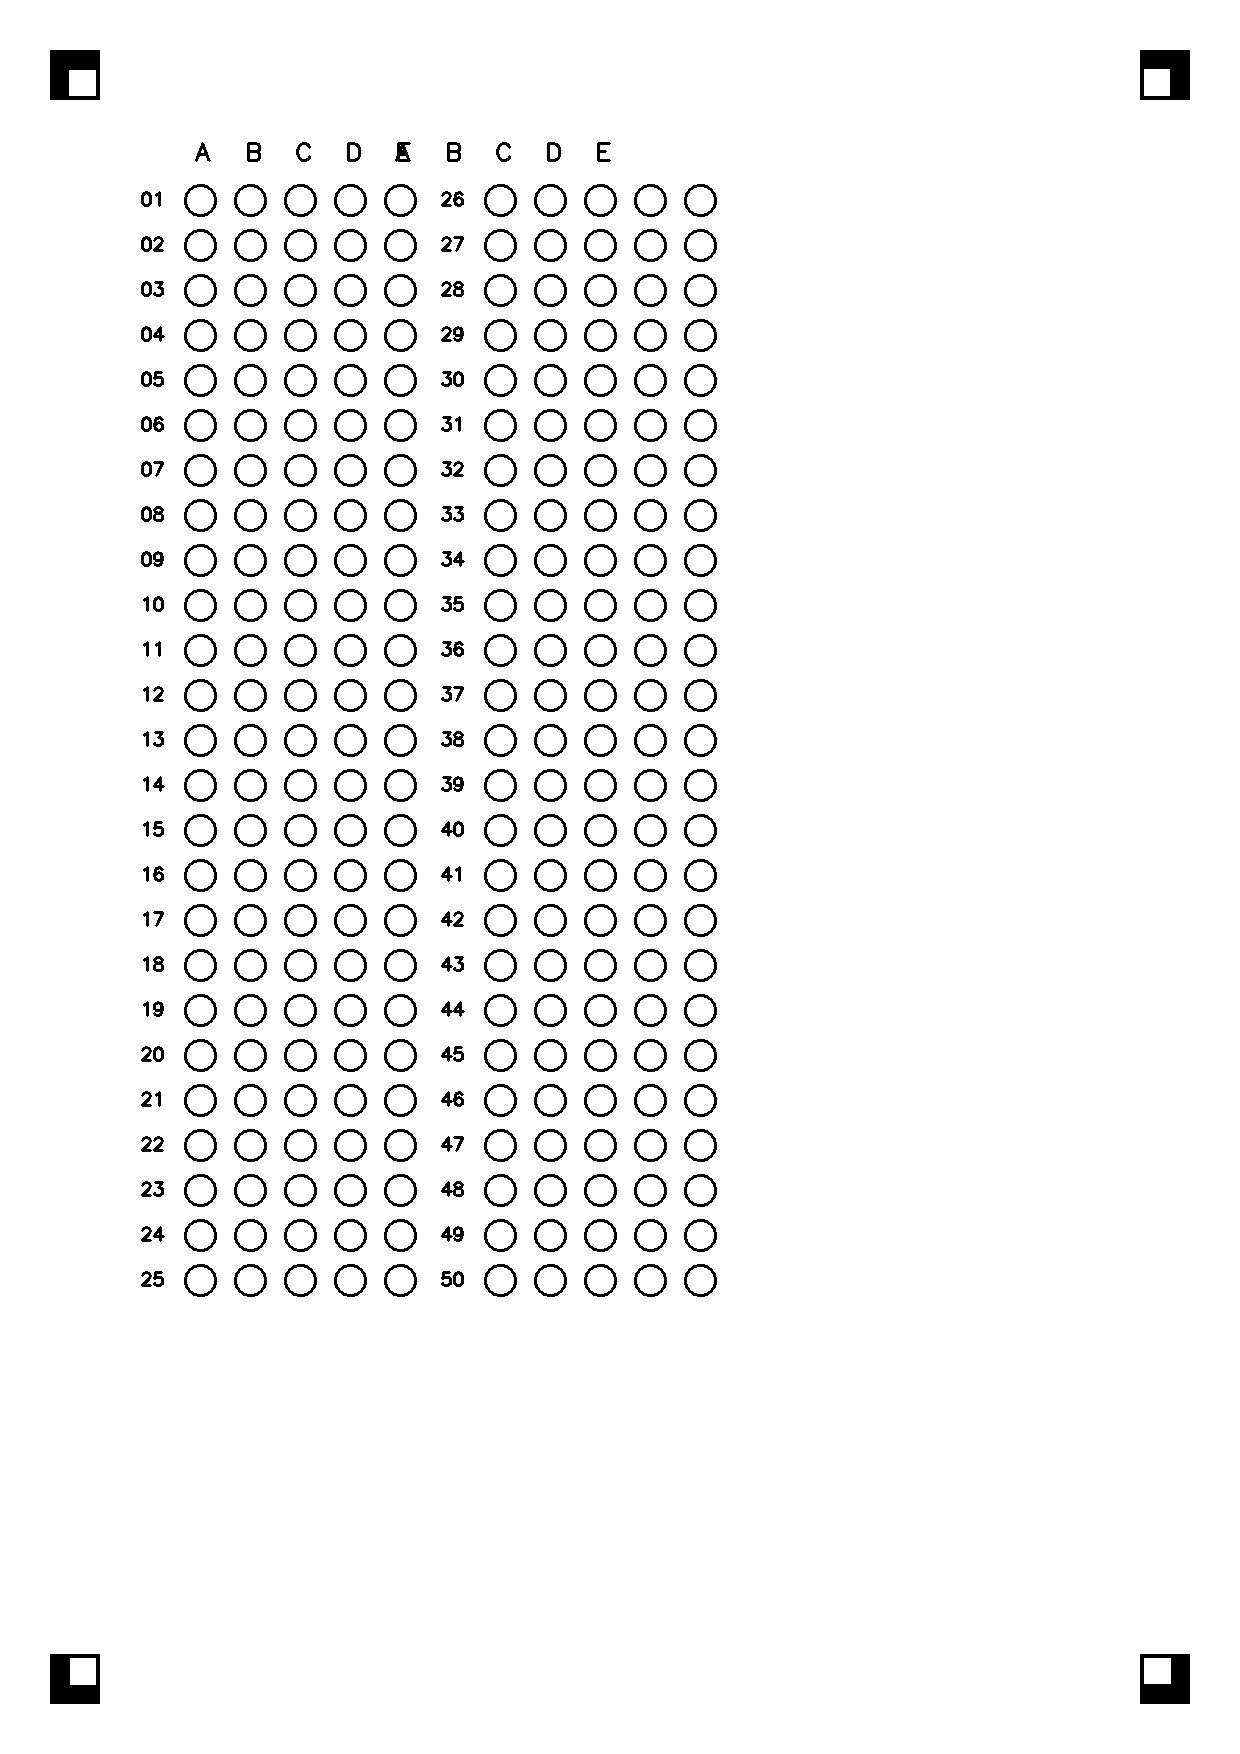
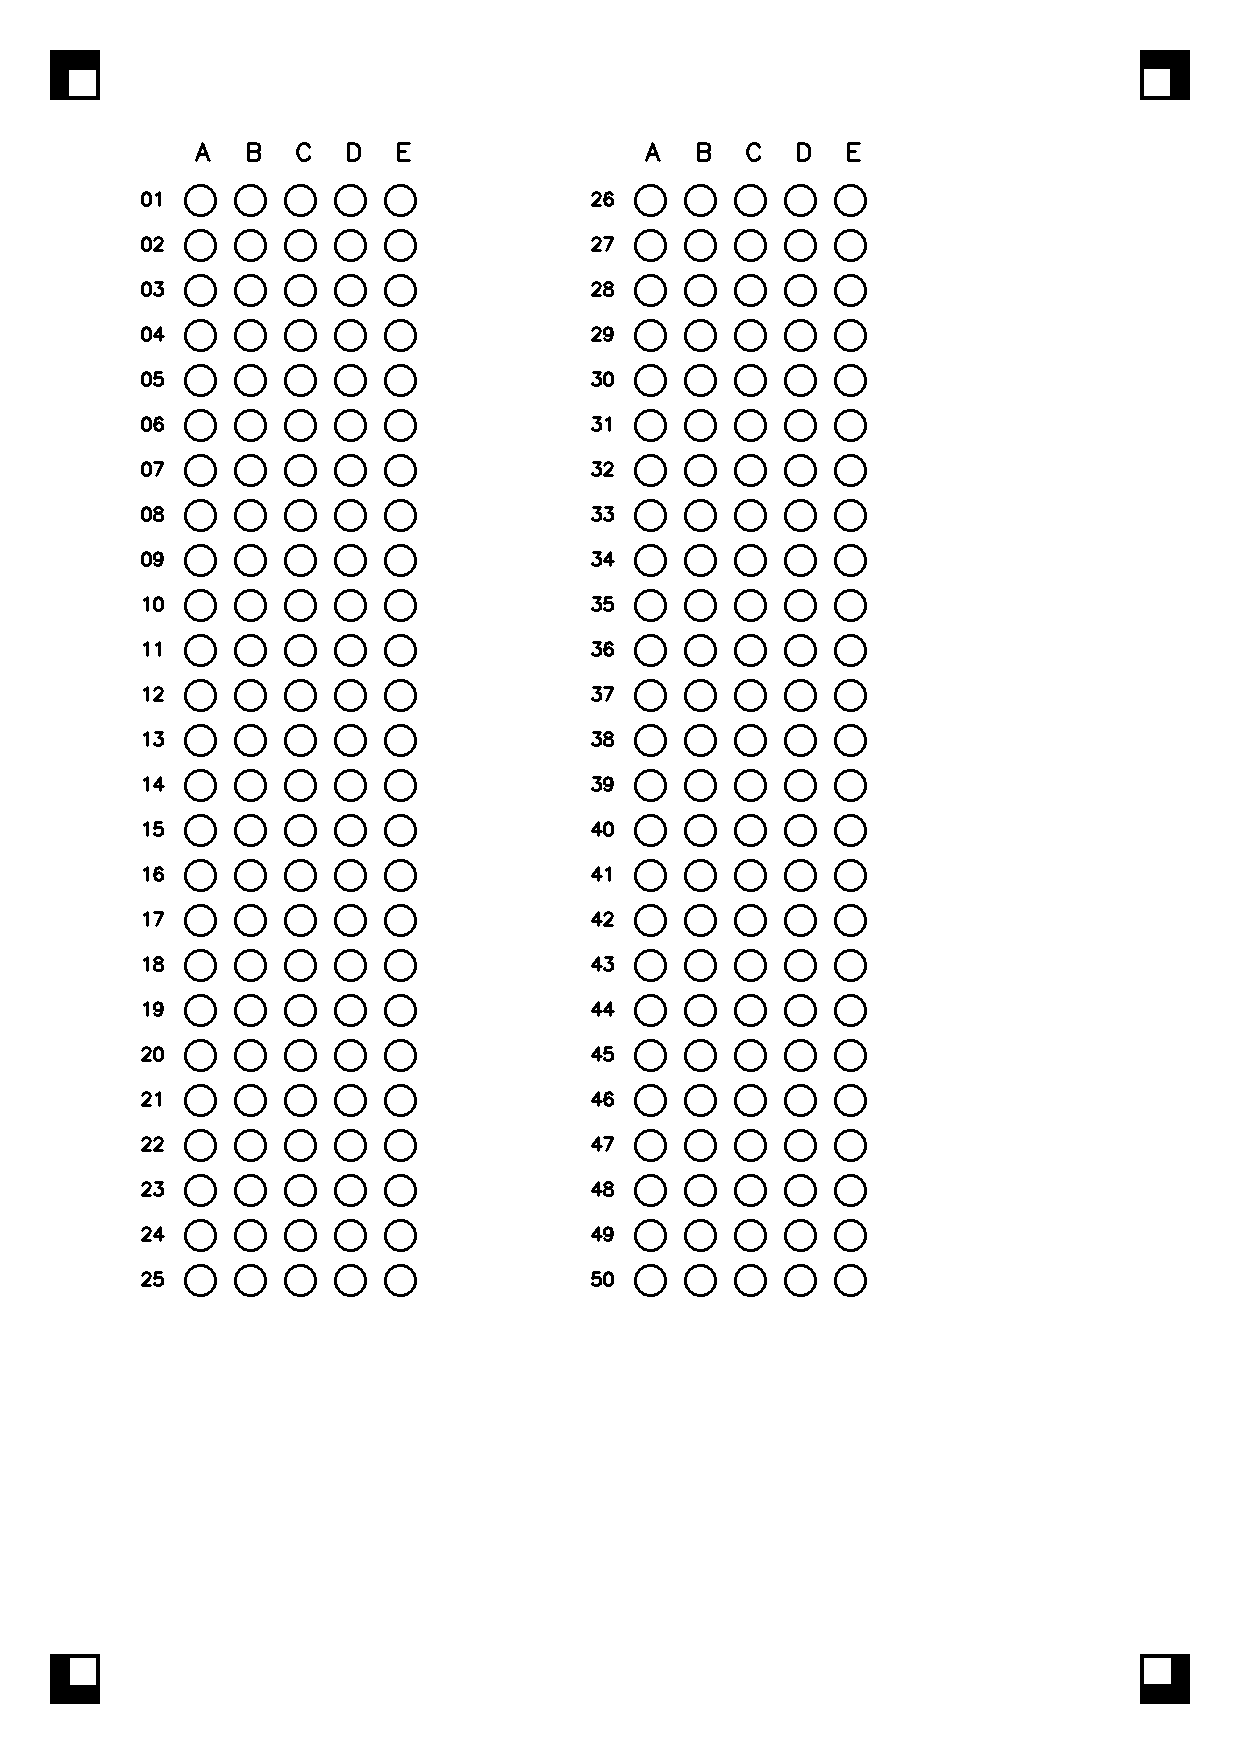
Meow

Changed region(s): [[0.5823, 0.0924, 0.7048, 0.7389], [0.3677, 0.0924, 0.521, 0.7389]]

diff --git a/ServForAndroidApp/scan.py b/ServForAndroidApp/scan.py
@@ -1,137 +1,64 @@
 import cv2
 import numpy as np
+from process_page import ProcessPage
 
-# Загружаем изображение
-widthImg = 800
-heightImg = 1000
+def clockwise_sort(x):
+	return (np.arctan2(x[0] - mx, x[1] - my) + 0.02 * np.pi) % (2*np.pi)
 
-image = cv2.imread('test14.png')
-imgBlank = np.zeros((heightImg, widthImg, 3), np.uint8)
+
+image = cv2.imread("test19.png")
+ratio = len(image[0]) / 500.0
+original_image = image.copy()
+
+image = cv2.resize(image, (0,0), fx=1/ratio, fy=1/ratio)
 gray = cv2.cvtColor(image, cv2.COLOR_BGR2GRAY)
-blurred = cv2.GaussianBlur(gray, (5, 5), 1)
-adaptive_thresh = cv2.Canny(blurred, 50, 200)
+gray = cv2.bilateralFilter(gray, 11, 17, 17)
+edged = cv2.Canny(gray, 200, 200)
 
-kernel = np.ones((5, 5))
-dial = cv2.dilate(adaptive_thresh, kernel, iterations=2)
-adaptive_thresh = cv2.erode(dial, kernel, iterations=1)
+contours, _ = cv2.findContours(edged.copy(), cv2.RETR_TREE, cv2.CHAIN_APPROX_SIMPLE)
+contours = sorted(contours, key=cv2.contourArea, reverse=True)[:10]
+biggestContour = None
 
-imgContours = image.copy()
-imgBigContour = image.copy()
+for contour in contours:
+	peri = cv2.arcLength(contour, True)
+	approx = cv2.approxPolyDP(contour, 0.02 * peri, True)
 
-contours, hierarchy = cv2.findContours(adaptive_thresh, cv2.RETR_EXTERNAL, cv2.CHAIN_APPROX_SIMPLE)
-cv2.drawContours(imgContours, contours, -1, (0, 255, 0), 10)
-imgcopy = cv2.resize(imgContours, (600, 750))
-cv2.imshow('origin', imgcopy)
+	if len(approx) == 4:
+		biggestContour = approx
+		break
+
+points = []
+desired_points = [[0, 1754], [0, 0], [1240, 0], [1240, 1754]]
+desired_points = np.float32(desired_points)
+
+if biggestContour is not None:
+	for i in range(0, 4):
+		points.append(biggestContour[i][0])
+
+mx = sum(point[0] for point in points) / 4
+my = sum(point[1] for point in points) / 4
+
+points.sort(key=clockwise_sort, reverse=True)
+points = np.float32(points)
+
+paper = []
+points *= ratio
+answers = 1
+if biggestContour is not None:
+	M = cv2.getPerspectiveTransform(points, desired_points)
+	paper = cv2.warpPerspective(original_image, M, (1240, 1754))
+	answers, paper = ProcessPage(paper)
+	cv2.imshow("Scanned Paper", cv2.resize(paper, (0, 0), fx=0.7, fy=0.7))
+
+if biggestContour is not None:
+	if answers != -1:
+		cv2.drawContours(image, [biggestContour], -1, (0, 255, 0), 3)
+		# print answers
+		# if codes is not None:
+		# 	print codes
+	else:
+		cv2.drawContours(image, [biggestContour], -1, (0, 0, 255), 3)
+
+cv2.imshow("Original Image", cv2.resize(image, (0, 0), fx=0.7, fy=0.7))
+
 cv2.waitKey(0)
-
-
-def reorder(myPoints):
-
-    myPoints = myPoints.reshape((4, 2))
-    myPointsNew = np.zeros((4, 1, 2), dtype=np.int32)
-    add = myPoints.sum(1)
-
-    myPointsNew[0] = myPoints[np.argmin(add)]
-    myPointsNew[3] =myPoints[np.argmax(add)]
-    diff = np.diff(myPoints, axis=1)
-    myPointsNew[1] =myPoints[np.argmin(diff)]
-    myPointsNew[2] = myPoints[np.argmax(diff)]
-
-    return myPointsNew
-
-
-def drawRectangle(img,biggest,thickness):
-    cv2.line(img, (biggest[0][0][0], biggest[0][0][1]), (biggest[1][0][0], biggest[1][0][1]), (0, 255, 0), thickness)
-    cv2.line(img, (biggest[0][0][0], biggest[0][0][1]), (biggest[2][0][0], biggest[2][0][1]), (0, 255, 0), thickness)
-    cv2.line(img, (biggest[3][0][0], biggest[3][0][1]), (biggest[2][0][0], biggest[2][0][1]), (0, 255, 0), thickness)
-    cv2.line(img, (biggest[3][0][0], biggest[3][0][1]), (biggest[1][0][0], biggest[1][0][1]), (0, 255, 0), thickness)
-
-    return img
-
-
-biggest = np.array([])
-max_area = 0
-for i in contours:
-    area = cv2.contourArea(i)
-    if area > 5000:
-        peri = cv2.arcLength(i, True)
-        approx = cv2.approxPolyDP(i, 0.02 * peri, True)
-
-        img_contours = np.uint8(np.zeros((image.shape[0], image.shape[1])))
-        cv2.drawContours(img_contours, [approx], -1, (255, 255, 255), 1)
-        imgcopy = cv2.resize(img_contours, (600, 750))
-        cv2.imshow('origin', imgcopy)
-        cv2.waitKey(0)
-
-        if area > max_area and len(approx) == 4:
-            biggest = approx
-            max_area = area
-
-if biggest.size != 0:
-    biggest = reorder(biggest)
-    cv2.drawContours(imgBigContour, biggest, -1, (0, 255, 0), 20)
-    imgBigContour = drawRectangle(imgBigContour, biggest, 2)
-    pts1 = np.float32(biggest)
-    pts2 = np.float32([[0, 0], [widthImg, 0], [0, heightImg], [widthImg, heightImg]])
-    matrix = cv2.getPerspectiveTransform(pts1, pts2)
-    imgWarpColored = cv2.warpPerspective(image, matrix, (widthImg, heightImg))
-
-    imgWarpColored = imgWarpColored[20:imgWarpColored.shape[0] - 20, 20:imgWarpColored.shape[1] - 20]
-    imgWarpColored = cv2.resize(imgWarpColored, (widthImg, heightImg))
-
-    imgWarpGray = cv2.cvtColor(imgWarpColored, cv2.COLOR_BGR2GRAY)
-    imgAdaptiveThre = cv2.adaptiveThreshold(imgWarpGray, 255, 1, 1, 7, 2)
-    imgAdaptiveThre = cv2.bitwise_not(imgAdaptiveThre)
-    imgAdaptiveThre = cv2.medianBlur(imgAdaptiveThre, 3)
-
-imgcopy = cv2.resize(imgAdaptiveThre, (600, 750))
-cv2.imshow('origin', imgcopy)
-cv2.waitKey(0)
-
-cut_img_gray = cv2.cvtColor(imgWarpColored, cv2.COLOR_BGR2GRAY)
-cut_img_blurred = cv2.GaussianBlur(cut_img_gray, (5, 5), 1)
-cut_img_thresh = cv2.Canny(cut_img_blurred, 60, 50)
-
-imgcopy = cv2.resize(imgWarpColored, (600, 750))
-cv2.imshow('origin', imgcopy)
-cv2.waitKey(0)
-
-cut_img_kernel = np.ones((5, 5))
-cut_img_dial = cv2.dilate(cut_img_thresh, cut_img_kernel, iterations=2)
-cut_img_thresh = cv2.erode(cut_img_dial, cut_img_kernel, iterations=1)
-
-imgcopy = cv2.resize(cut_img_thresh, (600, 750))
-cv2.imshow('origin', imgcopy)
-cv2.waitKey(0)
-
-cut_img_contours, cut_img_hierarchy = cv2.findContours(cut_img_thresh, cv2.RETR_EXTERNAL, cv2.CHAIN_APPROX_SIMPLE)
-
-min_radius = 10
-max_radius = 20
-
-filled_circles = []
-
-for cnt in cut_img_contours:
-    # Проверить, является ли контур достаточно круглым
-    (x, y), radius = cv2.minEnclosingCircle(cnt)
-    if min_radius < radius < max_radius:
-        # Выделить кружок и проверить его заполненность
-        mask = np.zeros(cut_img_thresh.shape, dtype="uint8")
-        cv2.drawContours(mask, [cnt], -1, 255, -1)
-
-        # Подсчитать количество черных пикселей внутри круга
-        circle_region = cv2.bitwise_and(cut_img_thresh, cut_img_thresh, mask=mask)
-        filled_ratio = cv2.countNonZero(circle_region) / (np.pi * radius ** 2)
-
-        # Если заполненность выше порога, считать круг заполненным
-        if filled_ratio > 0.8:  # порог можно подстроить
-            filled_circles.append((int(x), int(y)))
-
-for (x, y) in filled_circles:
-    cv2.circle(imgWarpColored, (x, y), int(10), (0, 0, 255), 2)  # Красный круг вокруг заполненного кружка
-
-imgcopy = cv2.resize(imgWarpColored, (600, 750))
-cv2.imshow('origin', imgcopy)
-cv2.waitKey(0)
-
-print("Заполненные кружки:", filled_circles)

diff --git a/ServForAndroidApp/process_page.py b/ServForAndroidApp/process_page.py
@@ -1,0 +1,148 @@
+import cv2
+import numpy as np
+from PIL import Image
+
+epsilon = 10 #image error sensitivity
+test_sensitivity_epsilon = 10 #bubble darkness error sensitivity
+answer_choices = ['A', 'B', 'C', 'D', 'E', '?'] #answer choices
+
+tags = [cv2.imread("markers/top_left.png", cv2.IMREAD_GRAYSCALE),
+        cv2.imread("markers/top_right.png", cv2.IMREAD_GRAYSCALE),
+        cv2.imread("markers/bottom_left.png", cv2.IMREAD_GRAYSCALE),
+        cv2.imread("markers/bottom_right.png", cv2.IMREAD_GRAYSCALE)]
+
+scaling = [1240.0, 1754.0] #scaling factor for 8.5in. x 11in. paper
+columns = [[200.0 / scaling[0], 50.0 / scaling[1]], [800.0 / scaling[0], 50.0 / scaling[1]]]  # Примерные значения для двух столбцов
+radius = 15.0 / scaling[0]  # Примерное значение, если радиус - 15 пикселей
+spacing = [50.0 / scaling[0], 45.0 / scaling[1]]  # Примерное значение для вертикального и горизонтального интервала
+
+
+def ProcessPage(paper):
+
+    cv2.imshow("Original Image", cv2.resize(paper, (0, 0), fx=0.5   , fy=0.5))
+
+    cv2.waitKey(0)
+
+    answers = [] #contains answers
+    gray_paper = cv2.cvtColor(paper, cv2.COLOR_BGR2GRAY) #convert image to grayscale
+    corners = FindCorners(paper) #find the corners of the bubbled area
+    print("Corners detected:", corners)
+    if corners is None:
+        return [-1], paper, [-1]
+
+    for corner in corners:
+        cv2.rectangle(
+            paper,
+            (corner[0] - 10, corner[1] - 10),
+            (corner[0] + 10, corner[1] + 10),
+            (0, 255, 0),
+            thickness=2
+        )
+
+        # Показать изображение с найденными углами
+    cv2.imshow("Corners Detected", cv2.resize(paper, (0, 0), fx=0.5, fy=0.5))
+    cv2.waitKey(0)
+    cv2.destroyAllWindows()
+
+    dimensions = [corners[1][0] - corners[0][0], corners[2][1] - corners[0][1]]
+
+    for k in range(0, 2):  # columns
+        for i in range(0, 25):  # rows
+            questions = []
+            for j in range(0, 5):  # answers
+                # coordinates of the answer bubble
+                x1 = int((columns[k][0] + j * spacing[0] - radius * 1.5) * dimensions[0] + corners[0][0])
+                y1 = int((columns[k][1] + i * spacing[1] - radius) * dimensions[1] + corners[0][1])
+                x2 = int((columns[k][0] + j * spacing[0] + radius * 1.5) * dimensions[0] + corners[0][0])
+                y2 = int((columns[k][1] + i * spacing[1] + radius) * dimensions[1] + corners[0][1])
+
+                # draw rectangles around bubbles
+                cv2.rectangle(paper, (x1, y1), (x2, y2), (255, 0, 0), thickness=1, lineType=8, shift=0)
+
+                # crop answer bubble
+                questions.append(gray_paper[y1:y2, x1:x2])
+
+            means = []
+            x1 = int((columns[k][0] - radius*8)*dimensions[0] + corners[0][0])
+            y1 = int((columns[k][1] + i*spacing[1] + 0.5*radius)*dimensions[1] + corners[0][1])
+
+            for question in questions:
+                means.append(np.mean(question))
+            min_arg = np.argmin(means)
+            min_val = means[min_arg]
+            means[min_arg] = 255
+            min_val2 = means[np.argmin(means)]
+            if min_val2 - min_val < test_sensitivity_epsilon:
+                #if so, then the question has been double bubbled and is invalid
+                min_arg = 5
+
+            #write the answer
+            cv2.putText(paper, answer_choices[min_arg], (x1, y1), cv2.FONT_HERSHEY_SIMPLEX, 0.4, (0, 150, 0), 1)
+
+            #append the answers to the array
+            answers.append(answer_choices[min_arg])
+
+    return answers, paper
+
+
+def FindCorners(paper):
+    gray_paper = cv2.cvtColor(paper, cv2.COLOR_BGR2GRAY) #convert image of paper to grayscale
+
+    #scaling factor used later
+    ratio = len(paper[0]) / 500.0
+
+    #error detection
+    if ratio == 0:
+        return -1
+
+    corners = [] #array to hold found corners
+
+    #try to find the tags via convolving the image
+    for tag in tags:
+        # tag = cv2.resize(tag, (0,0), fx=1/ratio, fy=1/ratio) #resize tags to the ratio of the image
+
+
+
+        #convolve the image
+        convimg = (cv2.filter2D(np.float32(cv2.bitwise_not(gray_paper)), -1, np.float32(cv2.bitwise_not(tag))))
+
+        #find the maximum of the convolution
+        corner = np.unravel_index(convimg.argmax(), convimg.shape)
+
+        #append the coordinates of the corner
+        corners.append([corner[1], corner[0]]) #reversed because array order is different than image coordinate
+        test = paper.copy()
+        cv2.rectangle(test, (corner[0] - 10, corner[1] - 10),
+                      (corner[0] + 10, corner[1] + 10), (0, 255, 0), thickness=2, lineType=8,
+                      shift=0)
+
+        cv2.imshow("Corners Sycle Detected", cv2.resize(test, (0, 0), fx=0.5, fy=0.5))
+        cv2.waitKey(0)
+        cv2.destroyAllWindows()
+
+    test = paper.copy()
+
+    #draw the rectangle around the detected markers
+    for corner in corners:
+        cv2.rectangle(test, (corner[0] - int(ratio * 25), corner[1] - int(ratio * 25)),
+        (corner[0] + int(ratio * 25), corner[1] + int(ratio * 25)), (0, 255, 0), thickness=2, lineType=8, shift=0)
+
+
+    cv2.imshow("Corners Detected", cv2.resize(test, (0, 0), fx=0.5, fy=0.5))
+    cv2.waitKey(0)
+    cv2.destroyAllWindows()
+
+    #check if detected markers form roughly parallel lines when connected
+    if corners[0][0] - corners[2][0] > epsilon:
+        return None
+
+    if corners[1][0] - corners[3][0] > epsilon:
+        return None
+
+    if corners[0][1] - corners[1][1] > epsilon:
+        return None
+
+    if corners[2][1] - corners[3][1] > epsilon:
+        return None
+
+    return corners

diff --git a/ServForAndroidApp/answersshet.py b/ServForAndroidApp/answersshet.py
@@ -20,6 +20,9 @@ circle_spacing_y = 45  # Вертикальный интервал между в
 margin_top = 200  # Увеличен отступ сверху, чтобы разместить метки
 margin_left = 200  # Отступ слева для первой колонки
 column_spacing_x = 50  # Горизонтальный интервал между колонками с вариантами
+column_spacing = 200
+
+column_width = len(columns) * column_spacing_x
 
 # Создаём белый фон для листа
 answer_sheet = np.ones((height, width), dtype=np.uint8) * 255
@@ -33,12 +36,17 @@ answer_sheet[height - 50 - marker_size:height - 50, width - 50 - marker_size:wid
 # Определение позиций для столбцов с вариантами и добавление букв (A, B, C, D) над каждым
 start_x = margin_left
 
-for i, column in enumerate(columns):
-    cv2.putText(
-        answer_sheet, column,
-        (start_x + i * column_spacing_x - 5, margin_top - 40),
-        cv2.FONT_HERSHEY_SIMPLEX, 0.8, (0, 0, 0), 2
-    )
+num_columns = (num_questions + questions_per_column - 1) // questions_per_column
+
+for col in range(num_columns):
+    # Начальная позиция для каждого столбца, включая `column_spacing`
+    start_x = margin_left + col * (column_width + column_spacing)
+    for i, option in enumerate(columns):
+        cv2.putText(
+            answer_sheet, option,
+            (start_x + i * column_spacing_x - 5, margin_top - 40),
+            cv2.FONT_HERSHEY_SIMPLEX, 0.8, (0, 0, 0), 2
+        )
 
 # Рисуем вопросы с вариантами ответов
 for q in range(num_questions):
@@ -48,7 +56,7 @@ for q in range(num_questions):
 
     # Позиция для номера вопроса
     question_y = margin_top + row * circle_spacing_y
-    question_x = margin_left + col * (4 * column_spacing_x + 100)
+    question_x = margin_left + col * (column_width + column_spacing)
 
     # Рисуем номер вопроса
     cv2.putText(
